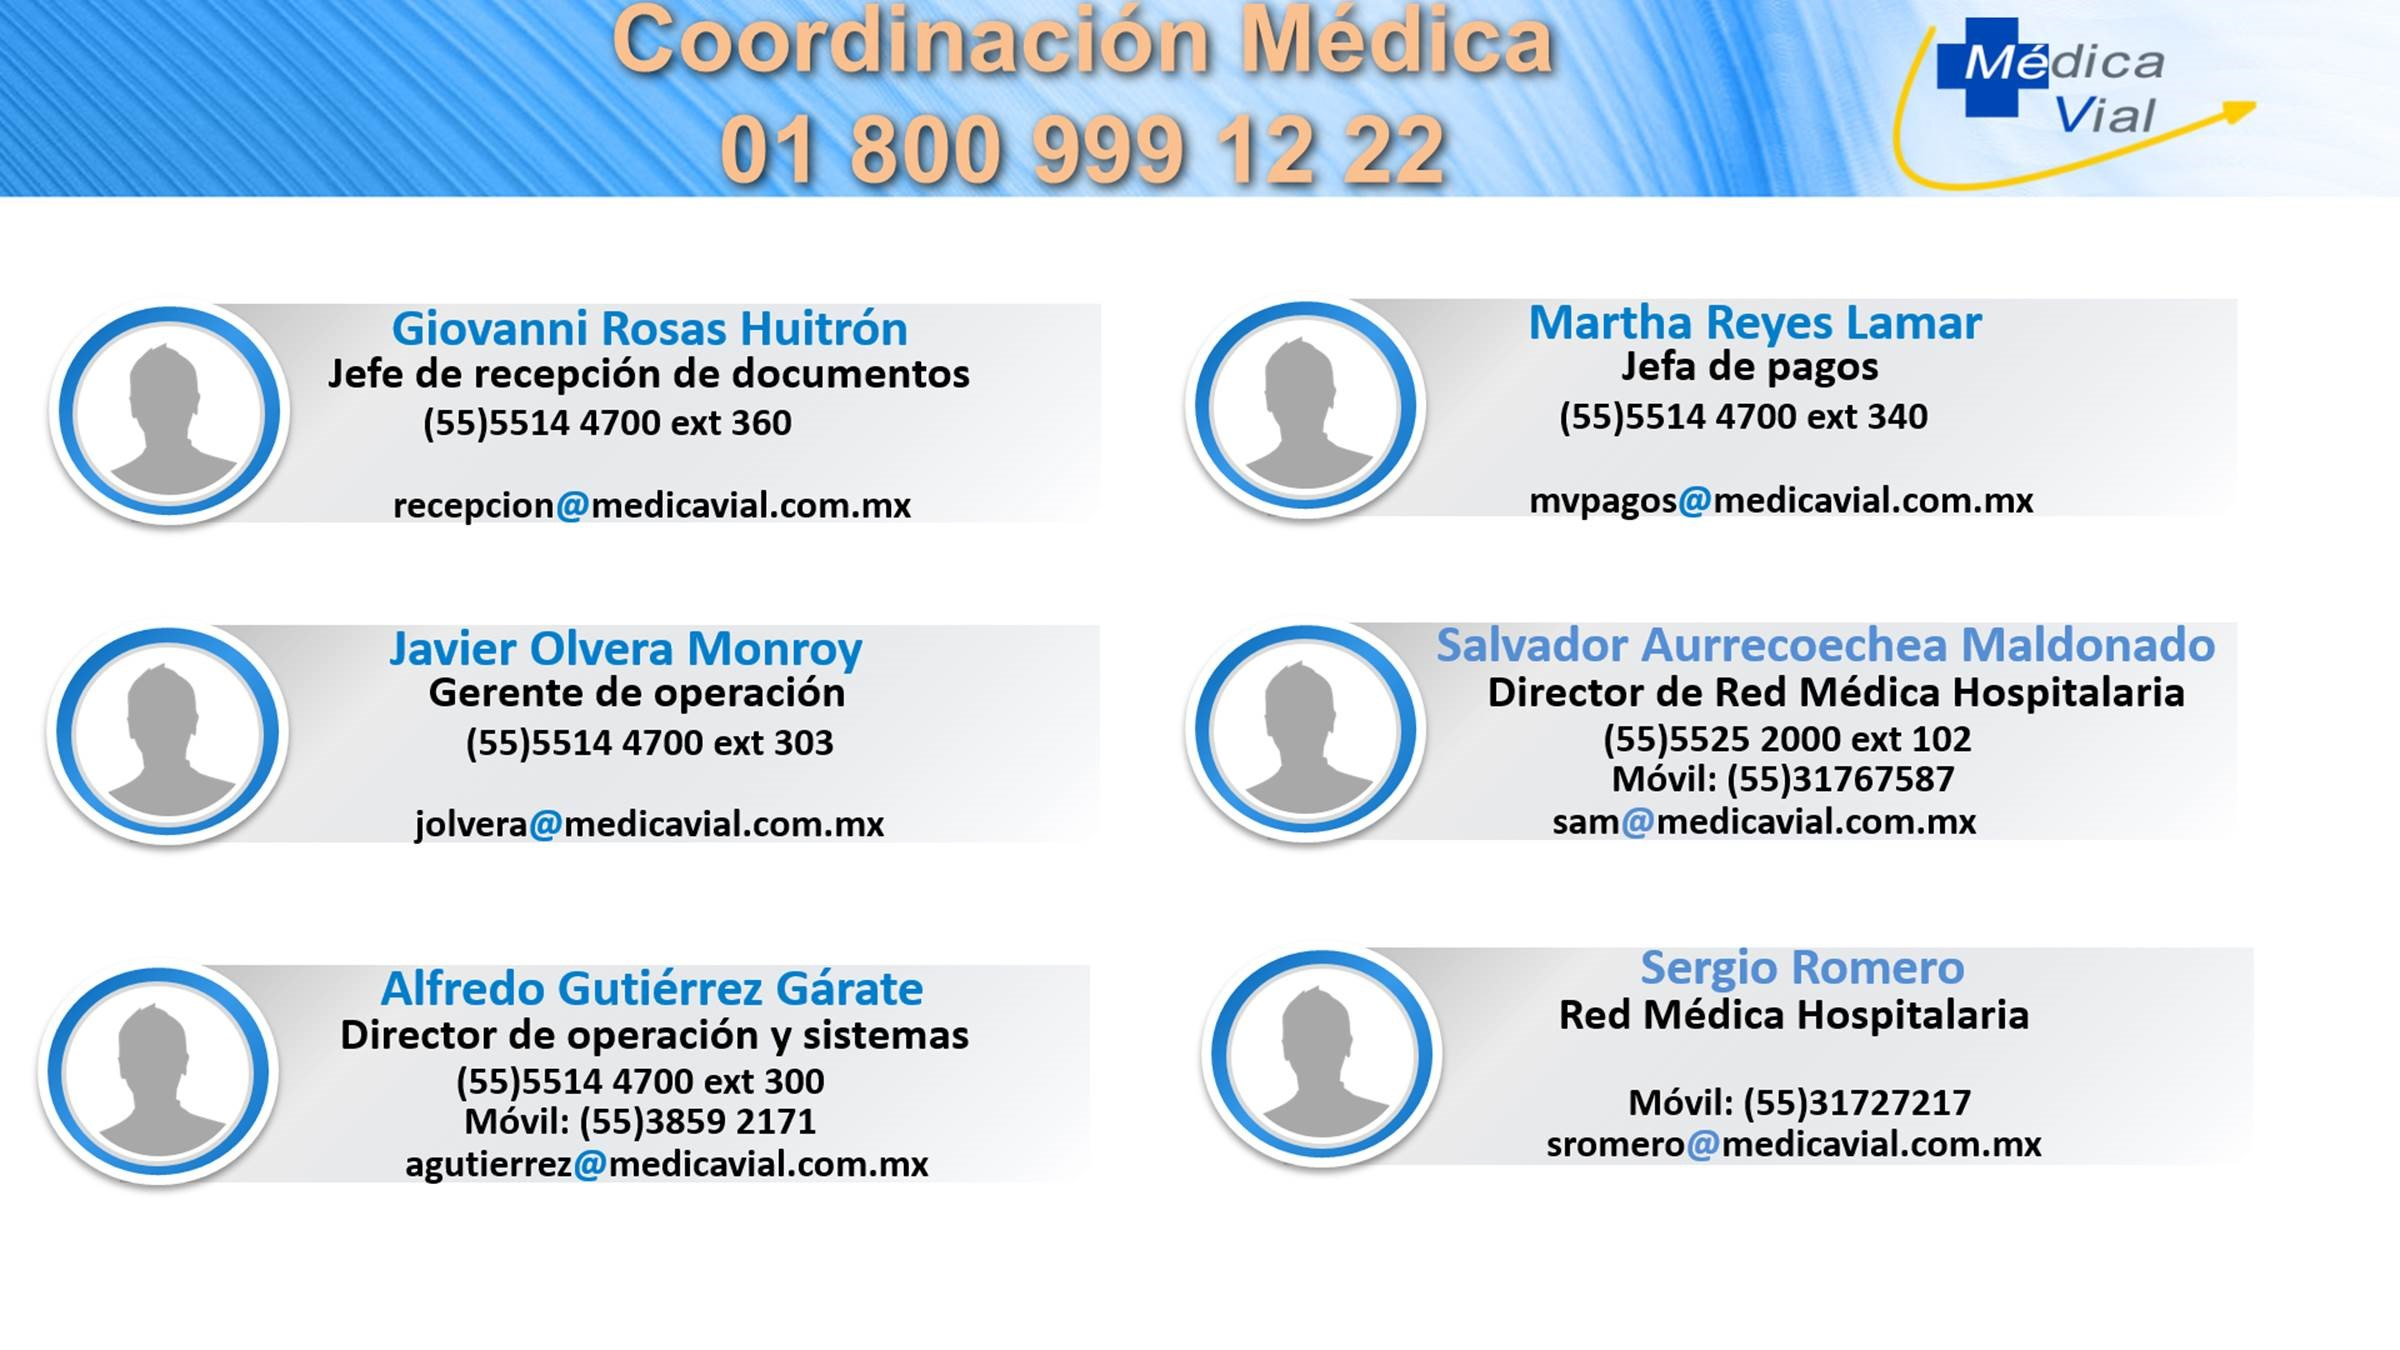
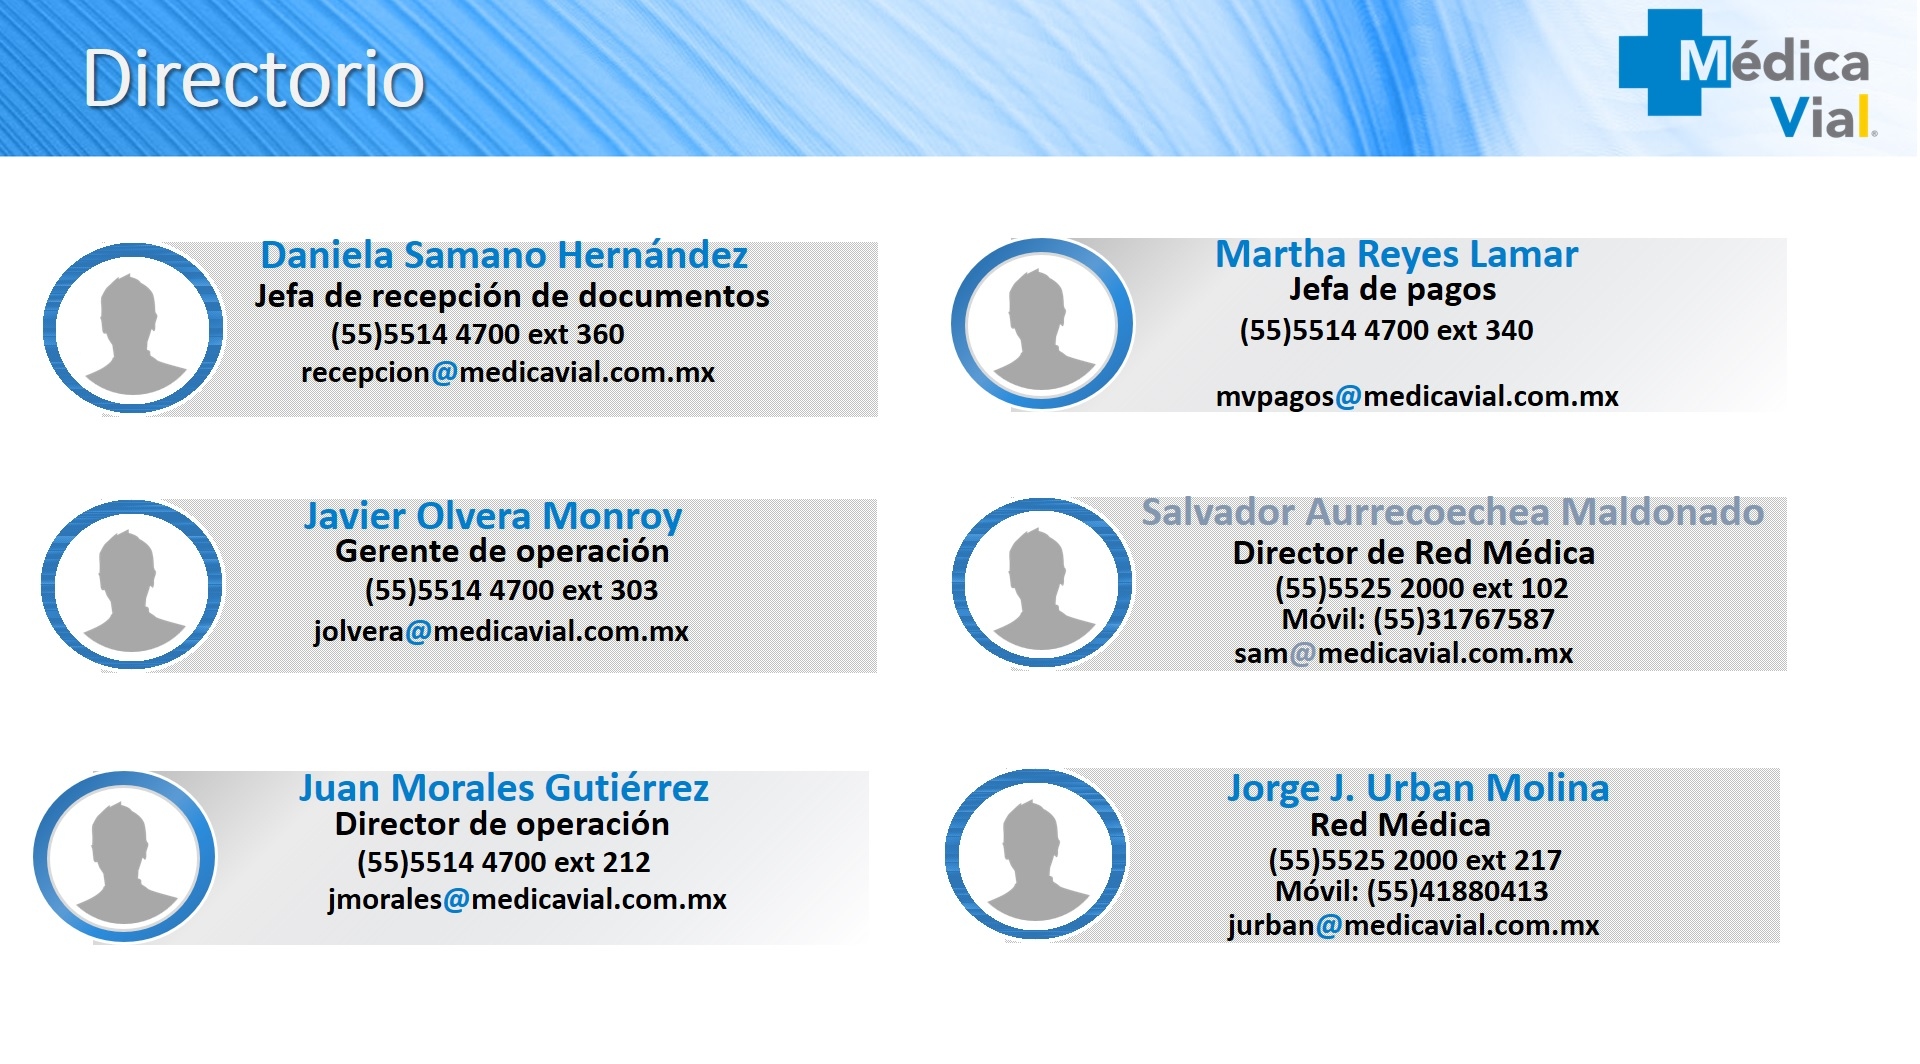
cambios en registro y ayuda

diff --git a/client/app/views/registroPaso4.html b/client/app/views/registroPaso4.html
@@ -22,6 +22,14 @@
               </div>
           </md-input-container>
 
+          <md-input-container flex>
+            <label>Inciso</label>
+            <input type="text" name="inciso" ng-model="rg.datoSiniestro.inciso" maxlength="6" mayusculas>
+            <div ng-messages="rg.siniestroForm.inciso.$error" ng-if="rg.siniestroForm.$submitted">
+                <div ng-message="maxlength">El campo no puede ser mayor de 6</div>
+              </div>
+          </md-input-container>
+
           <md-input-container  class="md-block" flex>
             <label>Poliza</label>
             <input type="text" name="poliza" ng-model="rg.datoSiniestro.poliza" mayusculas required>
@@ -31,14 +39,10 @@
           </md-input-container>
           
           <md-input-container  class="md-block" flex>
-            <label>Folio de  <span ng-if="rg.datoSiniestro.cliente != 19">Derivación</span> <span ng-if="rg.datoSiniestro.cliente == 19">Electronico</span> </label>
+            <label>Folio de  <span ng-if="rg.datoSiniestro.cliente != 19 && rg.datoSiniestro.cliente != 10">Derivación</span> <span ng-if="rg.datoSiniestro.cliente == 19">Electronico</span> <span ng-if="rg.datoSiniestro.cliente == 10">Segmentación</span> </label>
             <input type="text" name="telefono" ng-model="rg.datoSiniestro.folioElec" mayusculas >
           </md-input-container>
 
-          <md-input-container flex>
-            <label>Inciso</label>
-            <input type="text" name="inciso" ng-model="rg.datoSiniestro.inciso" mayusculas>
-          </md-input-container>
 
         </section>
 
@@ -54,6 +58,11 @@
           </md-input-container>
 
           <md-input-container flex>
+            <label>bitacora</label>
+            <input type="text" name="orden" ng-model="rg.datoSiniestro.bitacora">
+          </md-input-container>
+
+          <md-input-container flex>
             <label>Reporte</label>
             <input type="text" name="reporte" ng-model="rg.datoSiniestro.reporte" mayusculas required>
             <div ng-messages="rg.siniestroForm.reporte.$error" ng-if="rg.siniestroForm.$submitted">
@@ -66,10 +75,6 @@
             <input type="text" name="orden" ng-model="rg.datoSiniestro.orden">
           </md-input-container>
           
-          <md-input-container flex>
-            <label>bitacora</label>
-            <input type="text" name="orden" ng-model="rg.datoSiniestro.bitacora">
-          </md-input-container>
 
           <div flex></div>
 
@@ -77,10 +82,6 @@
 
 
         <section layout="row" layout-xs="column">
-          
-          <md-switch ng-model="rg.datoSiniestro.ilejible" aria-label="ilejible" class="md-warn" ng-true-value="'si'" ng-false-value="'no'" flex-gt-sm="15">
-            Ilegible {{ rg.datoSiniestro.ilejible }}
-          </md-switch>
 
           <md-autocomplete flex
               md-input-name="ajustador"
@@ -108,8 +109,17 @@
           
           <md-input-container flex>
             <label>Telefono del ajustador</label>
-            <input type="text" ng-disabled="rg.ajustadorExiste" name="telAjustador" ng-model="rg.datoSiniestro.telAjustador" numero>
+            <input type="text" ng-disabled="rg.ajustadorExiste" name="telAjustador" ng-model="rg.datoSiniestro.telAjustador" maxlength="12" minlength="8" numero>
+            <div ng-messages="rg.telAjustador.telefono.$error" ng-if="rg.registroForm.$submitted">
+              <div ng-message="required">El campo es requerido</div>  
+              <div ng-message="maxlength">El numero no debe ser mayor a 12</div>          
+              <div ng-message="minlength">El numero debe ser de 8 o más digitos</div>          
+            </div>
           </md-input-container>
+
+          <md-switch ng-model="rg.datoSiniestro.ilejible" aria-label="ilejible" class="md-warn" ng-true-value="'si'" ng-false-value="'no'" flex>
+            Ajustador Ilegible {{ rg.datoSiniestro.ilejible }}
+          </md-switch>
 
         </section>
 
@@ -135,6 +145,30 @@
               <div ng-message="required">El campo es requerido</div>            
             </div>
           </md-input-container>
+
+        </section>
+
+        <section layout="row" layout-xs="column">
+
+
+          <md-switch ng-model="rg.datoSiniestro.extemporaneo" aria-label="extemporaneo" class="md-warn" ng-true-value="'si'" ng-false-value="'no'" flex>
+            Folio Extemporaneo {{ rg.datoSiniestro.extemporaneo }}
+          </md-switch>
+
+          <md-input-container class="md-block" flex-gt-sm="60" ng-if="rg.datoSiniestro.deducible == 'si' ">
+            <label>Motivo</label>
+            <textarea ng-model="rg.datoSiniestro.motivoEx" name="motivoEx" rows="5" required></textarea>
+            <div ng-messages="rg.siniestroForm.motivoEx.$error" ng-if="rg.siniestroForm.$submitted">
+              <div ng-message="required">El campo es requerido</div>            
+            </div>
+          </md-input-container>
+
+          <mdp-date-picker mdp-open-on-click required name="fechaAtn" mdp-placeholder="Fecha de Atención" mdp-format="DD/MM/YYYY" ng-model="rg.datos.fechaAtencion" class="md-block" flex>
+            <div ng-messages="rg.registroForm.fechaAtn.$error" ng-if="rg.registroForm.$submitted">
+              <div ng-message="required">El campo es requerido</div>
+              <div ng-message="format">Formato de fecha invalido</div>
+            </div>
+          </mdp-date-picker>
 
         </section>
 

diff --git a/client/app/views/registroPaso3.html b/client/app/views/registroPaso3.html
@@ -15,7 +15,7 @@
           
           <md-input-container flex>
             <label>Nombre (s)</label>
-            <input type="text" name="nombre" ng-model="rg.datos.nombre" mayusculas required maxlength="30">
+            <input type="text" name="nombre" ng-model="rg.datos.nombre" mayusculas required maxlength="50">
             <div ng-messages="rg.registroForm.nombre.$error" ng-if="rg.registroForm.$submitted">
               <div ng-message="required">El campo es requerido</div> 
               <div ng-message="maxlength">El campo no puede ser mas grande</div>            
@@ -23,7 +23,7 @@
           </md-input-container>
           <md-input-container flex>
             <label>A. Paterno</label>
-            <input type="text" name="apaterno" ng-model="rg.datos.apaterno" mayusculas required maxlength="30">
+            <input type="text" name="apaterno" ng-model="rg.datos.apaterno" mayusculas required maxlength="50">
             <div ng-messages="rg.registroForm.apaterno.$error" ng-if="rg.registroForm.$submitted">
               <div ng-message="required">El campo es requerido</div> 
               <div ng-message="maxlength">El campo no puede ser mas grande</div>            
@@ -31,13 +31,14 @@
           </md-input-container>
           <md-input-container flex>
             <label>A. Materno</label>
-            <input type="text" name="amaterno" ng-model="rg.datos.amaterno" mayusculas required maxlength="30">
+            <input type="text" name="amaterno" ng-model="rg.datos.amaterno" mayusculas required maxlength="50">
             <div ng-messages="rg.registroForm.amaterno.$error" ng-if="rg.registroForm.$submitted">
               <div ng-message="required">El campo es requerido</div>  
               <div ng-message="maxlength">El campo no puede ser mas grande</div>           
             </div>
           </md-input-container>
-          <mdp-date-picker mdp-open-on-click required name="dateFormat" mdp-placeholder="Fecha de Nacimiento" mdp-format="DD/MM/YYYY" ng-model="rg.fecha" class="md-block" flex>
+
+          <mdp-date-picker mdp-open-on-click required name="dateFormat" mdp-placeholder="Fecha de Nacimiento" mdp-format="DD/MM/YYYY" ng-model="rg.datos.fechaNac" class="md-block" flex>
             <div ng-messages="rg.registroForm.dateFormat.$error" ng-if="rg.registroForm.$submitted">
               <div ng-message="required">El campo es requerido</div>
               <div ng-message="format">Formato de fecha invalido</div>

diff --git a/client/app/views/busqueda.html b/client/app/views/busqueda.html
@@ -35,15 +35,15 @@
             </tr>
           </thead>
           <tbody md-body>
-            <tr md-row ng-click="bs.muestraDetalle($index,registro)" class="fila" ng-repeat="registro in bs.registros">
+            <tr md-row class="fila" ng-repeat="registro in bs.registros">
               
-              <td md-cell class="imagen"> 
+              <td ui-sref="index.detalle({folio:registro.Exp_folio})" md-cell class="imagen"> 
                 <img class="img-thumbnail md-whiteframe-2dp" ng-src="http://www.medicavial.net/mvred/imgs/logosregmv/{{ registro.Cia_logo }}" alt="{{registro.Cia_clave}}"  width="100"> 
               </td>
-              <td md-cell>{{registro.Exp_folio}}</td>
-              <td md-cell>{{registro.Exp_completo}}</td>
-              <td md-cell>{{registro.Exp_fecreg}}</td>
-              <td md-cell>{{registro.Exp_obs}}</td>
+              <td ui-sref="index.detalle({folio:registro.Exp_folio})" md-cell>{{registro.Exp_folio}}</td>
+              <td ui-sref="index.detalle({folio:registro.Exp_folio})" md-cell>{{registro.Exp_completo}}</td>
+              <td ui-sref="index.detalle({folio:registro.Exp_folio})" md-cell>{{registro.Exp_fecreg}}</td>
+              <td ui-sref="index.detalle({folio:registro.Exp_folio})" md-cell>{{registro.Exp_obs}}</td>
               <td md-cell>
                   <md-menu md-position-mode="target-right target" >
                     <md-button aria-label="Opciones" class="md-icon-button" ng-click="$mdOpenMenu()">
@@ -69,7 +69,7 @@
             
           </tbody>
         </table>
-        <md-table-pagination md-limit="bs.datos.limit" md-limit-options="bs.paginacion" md-page="bs.datos.page" md-total="{{bs.total}}" md-on-paginate="bs.buscar" md-label="{page: 'Página:', rowsPerPage: 'Resultados por página:', of: 'de'}"></md-table-pagination  md-page-select="bs.pageSelect">
+        <md-table-pagination md-limit="bs.datos.limit" md-limit-options="bs.paginacion" md-page="bs.datos.page" md-total="{{bs.total}}" md-on-paginate="bs.buscar" md-label="{page: 'Página:', rowsPerPage: 'Resultados por página:', of: 'de'}" md-page-select></md-table-pagination  md-page-select="bs.pageSelect">
       </md-table-container>
 
       <!-- <md-list>

diff --git a/client/app/scripts/controllers/registroCtrl.js b/client/app/scripts/controllers/registroCtrl.js
@@ -18,8 +18,10 @@
 
 		// se inciliza el objeto del controlador y la vista
 		var vm = this;
+		vm.fecha = moment().subtract(25, "year");
+		var fecha = new Date(vm.fecha);
+		console.log(fecha);
 
-		vm.fecha = moment().subtract(25, "year").format("DD/MM/YYYY");
 
 		//variable de error
 		var mensajeError = 'Ocurrio un error al guardar intentelo nuevamente';
@@ -234,7 +236,7 @@
 				nombre:'',
 				apaterno:'',
 				amaterno:'',
-				fechaNac:vm.fecha
+				fechaNac:new Date(vm.fecha)
 			}
 
 			vm.datoSiniestro = {
@@ -259,7 +261,10 @@
 				observaciones : '',
 				deducible: 'no',
 				reporte: '',
-				observacionesDeducible: ''
+				observacionesDeducible: '',
+				fechaAtencion:'',
+				extemporaneo:'no',
+				motivoEx:''
 			}
 
 			consultaInfo();

diff --git a/client/app/scripts/run.js b/client/app/scripts/run.js
@@ -33,14 +33,14 @@
 	        
 	        $rootScope.atras = false;
 
-	        url = toState.name;
-		    if(url !== 'login' && webStorage.session.get('username') === null)
+	        $rootScope.url = toState.name;
+		    if($rootScope.url !== 'login' && webStorage.session.get('username') === null)
 	        {   
 	        	event.preventDefault();
 	            $state.go('login');
 	        }
 	        //en el caso de que intente acceder al login y ya haya iniciado sesión lo mandamos a la home
-	        if(url === 'login' && webStorage.session.get('username') !== null)
+	        if($rootScope.url === 'login' && webStorage.session.get('username') !== null)
 	        {
 	        	event.preventDefault();
 	            $state.go('index.home');

diff --git a/client/app/views/directorio.html b/client/app/views/directorio.html
@@ -1,7 +1,15 @@
 <md-dialog aria-label="Directorio">
-
-  <md-dialog-content>
-    <img src="img/directorio.jpg" alt="directorio" width="100%">
-  </md-dialog-content>
+	<md-toolbar class="md-warn">
+	    <div class="md-toolbar-tools">
+			<h2>Directorio</h2>
+			<span flex></span>
+			<md-button  class="md-icon-button" ng-click="cerrar()">
+				<ng-md-icon icon="close" style="fill:white" aria-label="Cerrar Ventana"></ng-md-icon> 
+			</md-button>
+	    </div>
+  	</md-toolbar>
+	<md-dialog-content>
+		<img src="img/directorio.jpg" alt="directorio" width="100%">
+	</md-dialog-content>
   
 </md-dialog>

diff --git a/client/app/scripts/controllers/ayudaCtrl.js b/client/app/scripts/controllers/ayudaCtrl.js
@@ -49,11 +49,16 @@
 		au.directorio = function(ev){
 
 			$mdDialog.show({
-		      templateUrl: 'views/directorio.html',
-		      parent: angular.element(document.body),
-		      targetEvent: ev,
-		      clickOutsideToClose:true,
-		      fullscreen: true
+				templateUrl: 'views/directorio.html',
+				parent: angular.element(document.body),
+				targetEvent: ev,
+				clickOutsideToClose:true,
+				fullscreen: true,
+				controller:function($scope,$mdDialog){
+					$scope.cerrar = function(){
+						$mdDialog.cancel();
+					}
+				}
 		    });
 
 		}

diff --git a/client/app/views/toolbar.html b/client/app/views/toolbar.html
@@ -3,7 +3,7 @@
 		<md-button ng-click="tb.menuSwitch('left')" class="md-icon-button">
 			<ng-md-icon icon="{{tb.menu}}" style="fill:white" aria-label="Menu"></ng-md-icon> 
 		</md-button>
-	  	<img src="img/logomini.png" alt="MedicaVial" style="margin-right: 10px">
+	  	<img ng-if="tb.url !== 'index.home' " src="img/logomini.png" alt="MedicaVial" style="margin-right: 10px">
 	  	<h1>{{ tb.titulo }}</h1>
 	  	<span flex></span>
 	  	<h2 hide show-gt-sm>Unidad: {{ tb.unidad }} </h2>

diff --git a/client/app/index.html b/client/app/index.html
@@ -56,6 +56,7 @@
 	<script src="lib/svg-morpheus/compile/minified/svg-morpheus.js"></script>
 	<script src="lib/material-design-lite/material.min.js"></script>
 	<script src="lib/moment/moment.js"></script>
+	<script src="lib/moment/locale/es.js"></script>
 	<script src="lib/mdPickers/dist/mdPickers.js"></script>
 	<script src="lib/angular-material-expansion-panel/dist/md-expansion-panel.js"></script>
 	<script src="lib/ngMorph/dist/angular-morph.min.js"></script>

diff --git a/client/app/scripts/controllers/busquedaCtrl.js b/client/app/scripts/controllers/busquedaCtrl.js
@@ -34,11 +34,11 @@
 		bs.ordenar = ordenar; // funcion para ordenar y buscar en query
 
 		bs.detalle = [];
+		bs.selected = [];
 
-		bs.muestraDetalle = function(index,folio){
+		bs.muestraDetalle = function(folio){
 			// bs.detalle = [];
-		   	bs.detalle[index] = !bs.detalle[index];
-		   	bs.dato = folio;
+		   	console.log(folio);
 		}
 
 

diff --git a/client/app/views/base.html b/client/app/views/base.html
@@ -23,7 +23,7 @@
 
     <md-content layout="column" class="gris" flex>
 
-      <toolbar titulo="titulo" menu="menu" md-scroll-shrink></toolbar>
+      <toolbar titulo="titulo" menu="menu" url="url" md-scroll-shrink></toolbar>
 
       <md-content ng-if="!cargando" ui-view flex class="bg-transparent paginas"></md-content>
 

diff --git a/client/app/scripts/components/toolbar.js b/client/app/scripts/components/toolbar.js
@@ -10,7 +10,8 @@
 		controllerAs:'tb',
 		bindings: {
 		  titulo: '=',
-		  menu: '='
+		  menu: '=',
+		  url:  '='
 		}
 	});
 
@@ -18,6 +19,8 @@
 	function toolbarCtrl($rootScope, auth, $mdSidenav, $mdMedia, $window){
 
 		var tb = this;
+
+		console.log($rootScope.url);
 
 		// funciones del controlador
 
